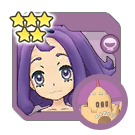
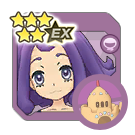
Add v2.40.0

Changed region(s): [[0.2963, 0.0889, 0.5926, 0.3556], [0.2963, 0.0889, 0.3259, 0.1185]]

diff --git a/js/syncpairs.js b/js/syncpairs.js
@@ -1141,6 +1141,40 @@ export const SYNCPAIRS = [
 			"Dragon Cousin"
 		],
 		"tags": [
+			"isWoman",
+			"Multiple Units"
+		]
+	},
+	{
+		"dexNumber": "014",
+		"trainerName": "Clair",
+		"trainerAlt": "New Year's 2024",
+		"pokemonNumber": "0780",
+		"pokemonName": "Drampa",
+		"pokemonGender": "♀",
+		"pokemonForm": [],
+		"pokemonType": "Dragon",
+		"pokemonWeak": "Ice",
+		"syncPairRole": "Support",
+		"syncPairRoleEX": "Tech",
+		"syncPairRarity": "5",
+		"releaseDate": "2024-01-01",
+		"syncPairAcquisition": "Seasonal Scout",
+		"syncPairRegion": "Johto",
+		"images": [
+			"Sync Pairs/0Y_SEASONALS/Clair_0780.png",
+			"Sync Pairs/0Y_SEASONALS/Clair_0780_EX.png"
+		],
+		"themes": [
+			"Dragon",
+			"Johto",
+			"Gym Leader",
+			"Seasonal Outfit"
+		],
+		"tags": [
+			"New Year",
+			"Limited",
+			"Multiple Units",
 			"isWoman"
 		]
 	},
@@ -3724,7 +3758,8 @@ export const SYNCPAIRS = [
 		"syncPairAcquisition": "Main Story: PML Arc",
 		"syncPairRegion": "Alola",
 		"images": [
-			"Sync Pairs/0G_ALOLA/0G_ALOLA_0C-03_Acerola.png"
+			"Sync Pairs/0G_ALOLA/0G_ALOLA_0C-03_Acerola.png",
+			"Sync Pairs/0G_ALOLA/0G_ALOLA_0C-03_Acerola_EX.png"
 		],
 		"themes": [
 			"Ghost",
@@ -5563,6 +5598,9 @@ export const SYNCPAIRS = [
 		"tags": [
 			"Limited",
 			"Multiple Units",
+			"Grid3",
+			"Grid5",
+			"GridExpansion",
 			"isWoman"
 		]
 	},
@@ -5654,7 +5692,7 @@ export const SYNCPAIRS = [
 		"pokemonType": "Fighting",
 		"pokemonWeak": "Fire",
 		"syncPairRole": "Support",
-		"syncPairRoleEX": "",
+		"syncPairRoleEX": "Sprint",
 		"syncPairRarity": "5",
 		"releaseDate": "2022-08-30",
 		"syncPairAcquisition": "Master Fair Scout",
@@ -6243,7 +6281,7 @@ export const SYNCPAIRS = [
 		"pokemonType": "Electric",
 		"pokemonWeak": "Ground",
 		"syncPairRole": "Tech",
-		"syncPairRoleEX": "",
+		"syncPairRoleEX": "Field",
 		"syncPairRarity": "5",
 		"releaseDate": "2022-09-01",
 		"syncPairAcquisition": "Master Fair Scout",
@@ -6638,7 +6676,46 @@ export const SYNCPAIRS = [
 		],
 		"tags": [
 			"isMan",
+			"Multiple Units",
 			"Song Key"
+		]
+	},
+	{
+		"dexNumber": "090",
+		"trainerName": "Wallace",
+		"trainerAlt": "New Year's 2024",
+		"pokemonNumber": "0806",
+		"pokemonName": "Blacephalon",
+		"pokemonGender": "",
+		"pokemonForm": ["Dynamax"],
+		"pokemonType": "Fire",
+		"pokemonWeak": "Dark",
+		"syncPairRole": "Field",
+		"syncPairRoleEX": "Strike (Special)",
+		"syncPairRarity": "5",
+		"releaseDate": "2024-01-01",
+		"syncPairAcquisition": "Seasonal Scout",
+		"syncPairRegion": "Hoenn",
+		"images": [
+			"Sync Pairs/0Y_SEASONALS/Wallace_0806.png",
+			"Sync Pairs/0Y_SEASONALS/Wallace_0806_EX.png"
+		],
+		"themes": [
+			"Fire",
+			"Hoenn",
+			"Gym Leader",
+			"Seasonal Outfit",
+			"Contest"
+		],
+		"tags": [
+			"Ultra Beast",
+			"New Year",
+			"Buddy Move",
+			"Limited",
+			"Weather",
+			"Region Circle",
+			"Multiple Units",
+			"isMan"
 		]
 	},
 	{
@@ -8102,6 +8179,39 @@ export const SYNCPAIRS = [
 		]
 	},
 	{
+		"dexNumber": "105",
+		"trainerName": "Volkner",
+		"trainerAlt": "Lodge",
+		"pokemonNumber": "0026",
+		"pokemonName": "Raichu",
+		"pokemonGender": "♂",
+		"pokemonForm": [],
+		"pokemonType": "Electric",
+		"pokemonWeak": "Ground",
+		"syncPairRole": "Tech",
+		"syncPairRoleEX": "",
+		"syncPairRarity": "4",
+		"releaseDate": "2024-01-01",
+		"syncPairAcquisition": "Trainer Lodge Exchange",
+		"syncPairRegion": "Sinnoh",
+		"images": [
+			"Sync Pairs/0D_SINNOH/Volkner_0026.png",
+			"Sync Pairs/5Star/Volkner_0026_5Star.png",
+			"Sync Pairs/0D_SINNOH/Volkner_0026_EX.png"
+		],
+		"themes": [
+			"Electric",
+			"Sinnoh",
+			"Gym Leader",
+			"Gadgeteer"
+		],
+		"tags": [
+			"Multiple Units",
+			"Multiple Pokemon",
+			"isMan"
+		]
+	},
+	{
 		"dexNumber": "106",
 		"trainerName": "Molayne",
 		"trainerAlt": "",
@@ -9262,7 +9372,7 @@ export const SYNCPAIRS = [
 		"pokemonType": "Fire",
 		"pokemonWeak": "Electric",
 		"syncPairRole": "Strike (Special)",
-		"syncPairRoleEX": "",
+		"syncPairRoleEX": "Support",
 		"syncPairRarity": "5",
 		"releaseDate": "2021-02-26",
 		"syncPairAcquisition": "Master Fair Scout",
@@ -9320,6 +9430,8 @@ export const SYNCPAIRS = [
 		"tags": [
 			"Limited",
 			"Multiple Units",
+			"Grid5",
+			"GridExpansion",
 			"isMan",
 			"Legendary"
 		]
@@ -11041,6 +11153,8 @@ export const SYNCPAIRS = [
 			"isMan",
 			"Wish Zone",
 			"Legendary",
+			"Grid5",
+			"GridExpansion",
 			"Multiple Units",
 			"Villain Arc"
 		]
@@ -12750,6 +12864,106 @@ export const SYNCPAIRS = [
 			"Multiple Pokemon",
 			"isWoman"
 		]
+	},
+	{
+		"dexNumber": "190",
+		"trainerName": "Katherine",
+		"trainerAlt": "Furisode Girl",
+		"pokemonNumber": "0685",
+		"pokemonName": "Slurpuff",
+		"pokemonGender": "♀",
+		"pokemonForm": [],
+		"pokemonType": "Fairy",
+		"pokemonWeak": "Poison",
+		"syncPairRole": "Tech",
+		"syncPairRoleEX": "",
+		"syncPairRarity": "3",
+		"releaseDate": "2024-01-01",
+		"syncPairAcquisition": "Event Reward",
+		"syncPairRegion": "Kalos",
+		"images": [
+			"Sync Pairs/0F_KALOS/Katherine_0685.png",
+			"Sync Pairs/4Star/Katherine_0685_4Star.png",
+			"Sync Pairs/5Star/Katherine_0685_5Star.png"
+		],
+		"themes": [
+			"Fairy",
+			"Kalos",
+			"Pigtails"
+		],
+		"tags": [
+			"Limited",
+			"isWoman"
+		]
+	},
+	{
+		"dexNumber": "191",
+		"trainerName": "Iono",
+		"trainerAlt": "",
+		"pokemonNumber": "0939",
+		"pokemonName": "Bellibolt",
+		"pokemonGender": "♂",
+		"pokemonForm": [],
+		"pokemonType": "Electric",
+		"pokemonWeak": "Ground",
+		"syncPairRole": "Support",
+		"syncPairRoleEX": "Strike (Special)",
+		"syncPairRarity": "5",
+		"releaseDate": "2024-01-12",
+		"syncPairAcquisition": "Poké Fair Scout",
+		"syncPairRegion": "Paldea",
+		"images": [
+			"Sync Pairs/0J_PALDEA/Iono_0939.png",
+			"Sync Pairs/0J_PALDEA/Iono_0939_EX.png"
+		],
+		"themes": [
+			"Electric",
+			"Gym Leader",
+			"Artistic",
+			"Free Spirit"
+		],
+		"tags": [
+			"Grid5",
+			"Buddy Move",
+			"Limited",
+			"isWoman",
+			"Paldea"
+		]
+	},
+	{
+		"dexNumber": "192",
+		"trainerName": "Grusha",
+		"trainerAlt": "",
+		"pokemonNumber": "0975",
+		"pokemonName": "Cetitan",
+		"pokemonGender": "♂",
+		"pokemonForm": [],
+		"pokemonType": "Ice",
+		"pokemonWeak": "Steel",
+		"syncPairRole": "Support",
+		"syncPairRoleEX": "Tech",
+		"syncPairRarity": "5",
+		"releaseDate": "2024-01-22",
+		"syncPairAcquisition": "Poké Fair Scout",
+		"syncPairRegion": "Paldea",
+		"images": [
+			"Sync Pairs/0J_PALDEA/Grusha_0975.png",
+			"Sync Pairs/0J_PALDEA/Grusha_0975_EX.png"
+		],
+		"themes": [
+			"Ice",
+			"Gym Leader",
+			"Scarf",
+			"Nature Lover"
+		],
+		"tags": [
+			"Grid5",
+			"Buddy Move",
+			"Limited",
+			"Wish Zone",
+			"isMan",
+			"Paldea"
+		]
 	}
 ]
 
@@ -12809,4 +13023,4 @@ const P = {
 }
 
 
-export const VERSION = "v2.39.0";
+export const VERSION = "v2.40.0";

diff --git a/js/news.js b/js/news.js
@@ -1,5 +1,9 @@
 export const NEWS = [
 	{
+		"date": "2023-12-26",
+		"info" : "Add v2.40.0"
+	},
+	{
 		"date": "2023-11-28",
 		"info" : "Add v2.39.0"
 	},
